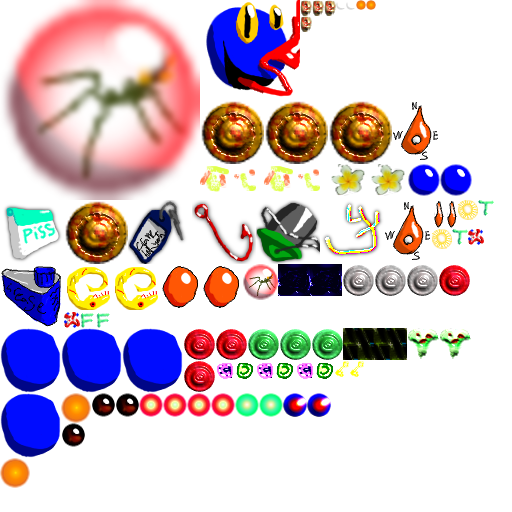
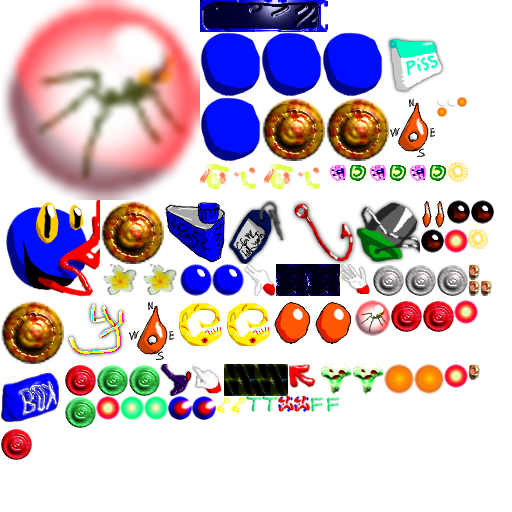
vastly improved by sorting by longest side

diff --git a/src/main.cc b/src/main.cc
@@ -15,7 +15,7 @@
 int compareSize(ImageNode const *a, ImageNode const *b) {
     sf::Vector2u aSize = a->getSize();
     sf::Vector2u bSize = b->getSize();
-  return (aSize.x + aSize.y > bSize.x + bSize.y);
+  return (std::max(aSize.x, aSize.y) > std::max(bSize.x, bSize.y));
 }
 
 /**
